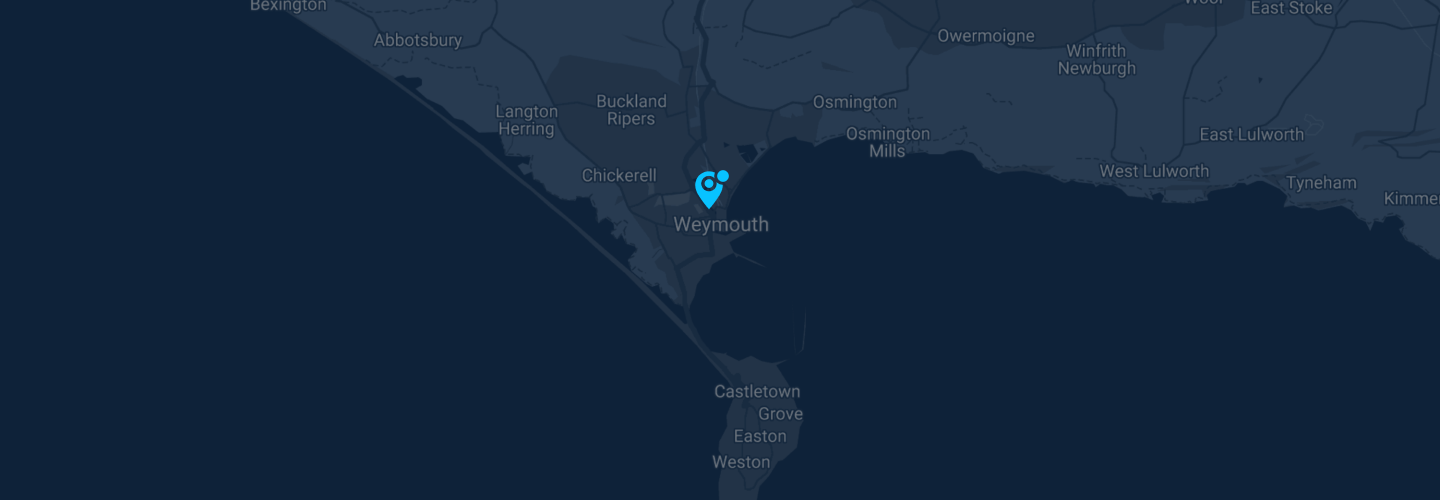
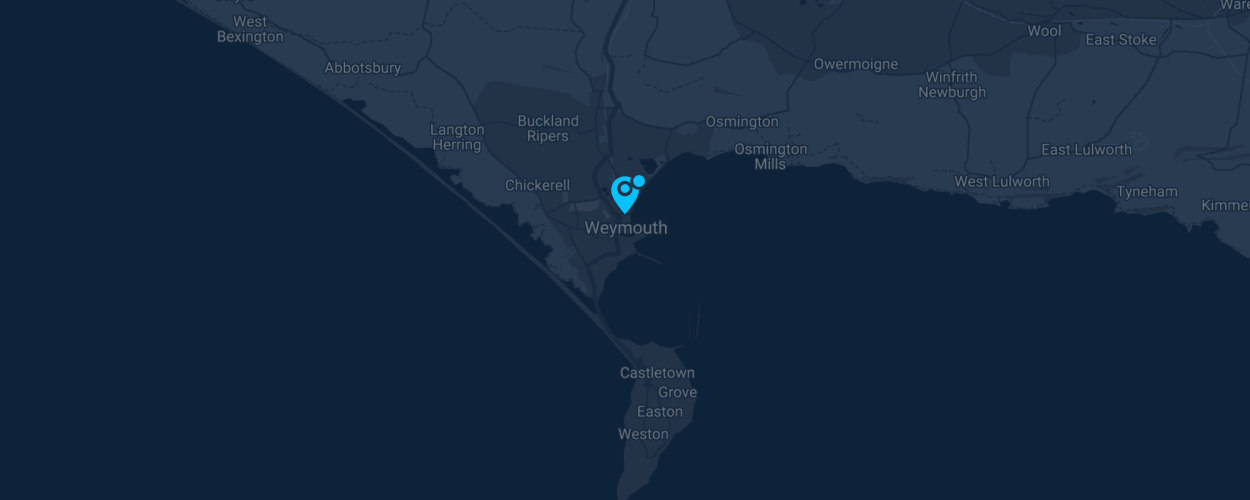
Contact section layout, markup/css complete, not responsive and not functional

diff --git a/src/components/ContactForm.js b/src/components/ContactForm.js
@@ -1,0 +1,112 @@
+import React, { useState } from 'react';
+import Input from '../components/Input';
+import '../styles/contact-form.css';
+
+export default function ContactForm() {
+  const [name, setName] = useState({ value: '', error: undefined });
+  const [email, setEmail] = useState({ value: '', error: undefined });
+  const [message, setMessage] = useState({ value: '', error: undefined });
+
+  const validateName = (e) => {
+    setName((prevState) => {
+      return { ...prevState, value: e.target.value };
+    });
+  };
+
+  const validateEmail = (e) => {
+    setEmail((prevState) => {
+      return { ...prevState, value: e.target.value };
+    });
+  };
+
+  const validateMessage = (e) => {
+    setMessage((prevState) => {
+      return { ...prevState, value: e.target.value };
+    });
+  };
+
+  const submitForm = (e) => {
+    e.preventDefault();
+
+    console.log('Form submitted');
+  };
+
+  return (
+    <div className='c-form'>
+      <form>
+        <Input
+          type='text'
+          value={name.value}
+          onChange={validateName}
+          error={name.error}
+          label='Name'
+          placeholder='John doe...'
+          id='Name'
+        />
+        <Input
+          type='text'
+          value={email.value}
+          onChange={validateEmail}
+          error={email.error}
+          label='Email'
+          placeholder='example@email.com...'
+          id='Email'
+        />
+        <Input
+          type='textarea'
+          value={message.value}
+          onChange={validateMessage}
+          error={message.error}
+          label='Message'
+          placeholder="Hi, i'd like to talk about..."
+          id='Message'
+        />
+        <button className='btn btn-primary' type='submit' onClick={(e) => submitForm(e)}>
+          <svg width='30' height='30' viewBox='0 0 30 30' fill='none' xmlns='http://www.w3.org/2000/svg'>
+            <path
+              d='M25 5H7.5C6.12125 5 5 6.12125 5 7.5V13.75H7.5V10L15.5 16C15.7165 16.1621 15.9796 16.2497 16.25 16.2497C16.5204 16.2497 16.7836 16.1621 17 16L25 10V21.25H15V23.75H25C26.3788 23.75 27.5 22.6287 27.5 21.25V7.5C27.5 6.12125 26.3788 5 25 5ZM16.25 13.4375L8.3325 7.5H24.1675L16.25 13.4375Z'
+              fill='#F6FAFE'
+            />
+            <path
+              d='M2.5 15H11.25V17.5H2.5V15ZM5 18.75H12.5V21.25H5V18.75ZM8.75 22.5H13.75V25H8.75V22.5Z'
+              fill='#F6FAFE'
+            />
+          </svg>
+          Send Mail
+        </button>
+      </form>
+      <div className='c-form-seperator'></div>
+      <address className='c-form-details'>
+        <svg width='30' height='30' viewBox='0 0 30 30' fill='none' xmlns='http://www.w3.org/2000/svg'>
+          <path
+            d='M25 5H7.5C6.12125 5 5 6.12125 5 7.5V13.75H7.5V10L15.5 16C15.7165 16.1621 15.9796 16.2497 16.25 16.2497C16.5204 16.2497 16.7836 16.1621 17 16L25 10V21.25H15V23.75H25C26.3788 23.75 27.5 22.6287 27.5 21.25V7.5C27.5 6.12125 26.3788 5 25 5ZM16.25 13.4375L8.3325 7.5H24.1675L16.25 13.4375Z'
+            fill='#041A2F'
+          />
+          <path
+            d='M2.5 15H11.25V17.5H2.5V15ZM5 18.75H12.5V21.25H5V18.75ZM8.75 22.5H13.75V25H8.75V22.5Z'
+            fill='#041A2F'
+          />
+        </svg>
+        <a
+          href='mailto:leonmichalak6@gmail.com'
+          target='_blank'
+          rel='noreferrer'
+          className='c-form-contact body-s-text'
+        >
+          leonmichalak6@gmail.com
+        </a>
+      </address>
+      <address className='c-form-details'>
+        <svg width='30' height='23' viewBox='0 0 30 23' fill='none' xmlns='http://www.w3.org/2000/svg'>
+          <path
+            d='M7.50001 3.75C7.50001 2.75544 7.8951 1.80161 8.59836 1.09835C9.30162 0.395088 10.2554 0 11.25 0H18.75C19.7446 0 20.6984 0.395088 21.4016 1.09835C22.1049 1.80161 22.5 2.75544 22.5 3.75V18.75C22.5 19.7445 22.1049 20.6984 21.4016 21.4016C20.6984 22.1049 19.7446 22.5 18.75 22.5H11.25C10.2554 22.5 9.30162 22.1049 8.59836 21.4016C7.8951 20.6984 7.50001 19.7445 7.50001 18.75V3.75ZM16.875 16.875C16.875 16.3777 16.6775 15.9008 16.3258 15.5492C15.9742 15.1975 15.4973 15 15 15C14.5027 15 14.0258 15.1975 13.6742 15.5492C13.3225 15.9008 13.125 16.3777 13.125 16.875C13.125 17.3723 13.3225 17.8492 13.6742 18.2008C14.0258 18.5524 14.5027 18.75 15 18.75C15.4973 18.75 15.9742 18.5524 16.3258 18.2008C16.6775 17.8492 16.875 17.3723 16.875 16.875ZM3.38814 5.12625C3.5045 4.90645 3.52878 4.64943 3.45565 4.41172C3.38251 4.17402 3.21794 3.97511 2.99814 3.85875C2.77834 3.74238 2.52132 3.7181 2.28362 3.79124C2.04591 3.86438 1.847 4.02895 1.73064 4.24875C0.590613 6.40612 -0.00357716 8.80992 1.62016e-05 11.25C1.62016e-05 13.7756 0.626266 16.1587 1.73064 18.2512C1.78826 18.3601 1.86675 18.4565 1.96163 18.535C2.05651 18.6135 2.16592 18.6725 2.28362 18.7087C2.40132 18.745 2.52499 18.7576 2.64759 18.746C2.77019 18.7345 2.8893 18.6988 2.99814 18.6412C3.10697 18.5836 3.20339 18.5051 3.28189 18.4102C3.36039 18.3154 3.41943 18.206 3.45565 18.0883C3.49186 17.9706 3.50454 17.8469 3.49295 17.7243C3.48137 17.6017 3.44575 17.4826 3.38814 17.3737C2.3911 15.4867 1.87158 13.3842 1.87501 11.25C1.87501 9.03749 2.42251 6.95249 3.38814 5.12625ZM28.2694 4.24875C28.153 4.02895 27.9541 3.86438 27.7164 3.79124C27.4787 3.7181 27.2217 3.74238 27.0019 3.85875C26.7821 3.97511 26.6175 4.17402 26.5444 4.41172C26.4712 4.64943 26.4955 4.90645 26.6119 5.12625C27.5775 6.95249 28.125 9.03562 28.125 11.25C28.125 13.4625 27.5775 15.5475 26.6119 17.3737C26.4955 17.5935 26.4712 17.8506 26.5444 18.0883C26.6175 18.326 26.7821 18.5249 27.0019 18.6412C27.2217 18.7576 27.4787 18.7819 27.7164 18.7087C27.9541 18.6356 28.153 18.471 28.2694 18.2512C29.4094 16.0939 30.0036 13.6901 30 11.25C30.0036 8.80992 29.4094 6.40612 28.2694 4.24875V4.24875ZM6.26251 7.84124C6.31483 7.72536 6.34304 7.60005 6.34541 7.47293C6.34778 7.34581 6.32427 7.21954 6.27631 7.10179C6.22835 6.98404 6.15693 6.87728 6.06642 6.78799C5.9759 6.69871 5.86816 6.62877 5.74977 6.58243C5.63137 6.53609 5.50478 6.51432 5.37771 6.51844C5.25063 6.52255 5.12572 6.55248 5.01057 6.60638C4.89543 6.66029 4.79245 6.73706 4.7079 6.83202C4.62335 6.92697 4.559 7.03814 4.51876 7.15874C4.00964 8.46262 3.7489 9.85023 3.75001 11.25C3.75001 12.6919 4.02189 14.0719 4.51876 15.3412C4.559 15.4618 4.62335 15.573 4.7079 15.668C4.79245 15.7629 4.89543 15.8397 5.01057 15.8936C5.12572 15.9475 5.25063 15.9774 5.37771 15.9815C5.50478 15.9857 5.63137 15.9639 5.74977 15.9175C5.86816 15.8712 5.9759 15.8013 6.06642 15.712C6.15693 15.6227 6.22835 15.5159 6.27631 15.3982C6.32427 15.2804 6.34778 15.1542 6.34541 15.027C6.34304 14.8999 6.31483 14.7746 6.26251 14.6587C5.83928 13.5722 5.62306 12.4161 5.62501 11.25C5.62501 10.0462 5.85001 8.89687 6.26251 7.84124ZM25.4812 7.15874C25.3823 6.93968 25.2031 6.76698 24.9805 6.67631C24.7579 6.58564 24.5089 6.58393 24.2851 6.67153C24.0613 6.75913 23.8797 6.92936 23.7777 7.14704C23.6758 7.36473 23.6614 7.61324 23.7375 7.84124C24.15 8.89687 24.375 10.0462 24.375 11.25C24.375 12.4537 24.15 13.6031 23.7375 14.6587C23.6614 14.8867 23.6758 15.1352 23.7777 15.3529C23.8797 15.5706 24.0613 15.7408 24.2851 15.8284C24.5089 15.9161 24.7579 15.9143 24.9805 15.8237C25.2031 15.733 25.3823 15.5603 25.4812 15.3412C25.98 14.0719 26.25 12.6919 26.25 11.25C26.25 9.80812 25.9781 8.42812 25.4812 7.15874V7.15874Z'
+            fill='#041A2F'
+          />
+        </svg>
+        <a href='callto:07498610586' target='_blank' rel='noreferrer' className='c-form-contact body-s-text'>
+          07498 610586
+        </a>
+      </address>
+    </div>
+  );
+}

diff --git a/src/styles/contact-form.css b/src/styles/contact-form.css
@@ -1,0 +1,56 @@
+.c-form {
+  background: #fff;
+  border-radius: var(--border-r);
+  box-shadow: 0 0 25px 0 rgba(0, 0, 0, 0.2);
+  max-width: 400px;
+  padding: 32px;
+  width: 100%;
+}
+
+.c-form button {
+  display: flex;
+  justify-content: center;
+  align-items: center;
+  padding: 8.5px 30px;
+  width: 100%;
+}
+
+.c-form button:hover svg path,
+.c-form button:focus svg path {
+  transition: all 0.2s ease-in-out;
+  fill: var(--primary-dark);
+}
+
+.c-form button svg {
+  margin-right: 12px;
+  max-height: 24px;
+  max-width: 24px;
+}
+
+.c-form-seperator {
+  background-color: var(--primary-dark);
+  margin: 40px 0;
+  width: 100%;
+  height: 1px;
+}
+
+.c-form-details {
+  display: flex;
+  justify-content: flex-start;
+  align-items: center;
+}
+
+.c-form-details:not(:last-child) {
+  margin-bottom: 16px;
+}
+
+.c-form-contact {
+  font-style: normal;
+  color: var(--black);
+  margin-left: 16px;
+  font-weight: 500;
+}
+
+.c-form-contact:hover {
+  text-decoration: underline;
+}

diff --git a/src/components/Input.js b/src/components/Input.js
@@ -1,0 +1,33 @@
+import React from 'react';
+import '../styles/input.css';
+
+export default function Input({ type, value, onChange, error, label, placeholder, id }) {
+  return (
+    <div className='input'>
+      <label for={id} className='body-s-text'>
+        {label}
+      </label>
+      {type === 'text' ? (
+        <input
+          className='body-s-text'
+          type='text'
+          value={value}
+          onChange={(e) => onChange(e)}
+          placeholder={placeholder}
+          id={id}
+          name={id}
+        />
+      ) : (
+        <textarea
+          className='body-s-text'
+          value={value}
+          onChange={(e) => onChange(e)}
+          placeholder={placeholder}
+          id={id}
+          name={id}
+        />
+      )}
+      <small className='error small-text'>{error}</small>
+    </div>
+  );
+}

diff --git a/src/styles/about.css b/src/styles/about.css
@@ -15,7 +15,7 @@
   display: flex;
   justify-content: flex-start;
   align-items: stretch;
-  max-width: var(--max-width);
+  max-width: calc(var(--max-width) - 64px);
   margin-right: auto;
   width: 100%;
 }
@@ -74,6 +74,10 @@
     grid-template-columns: 1fr;
     padding-left: 30px;
   }
+
+  .about-main {
+    max-width: calc(var(--max-width) - 30px);
+  }
 }
 
 @media (max-width: 1050px) {
@@ -85,6 +89,7 @@
 @media (max-width: 750px) {
   .about-main {
     flex-direction: column;
+    max-width: var(--max-width);
   }
 
   .about-img {

diff --git a/src/styles/contact.css b/src/styles/contact.css
@@ -1,5 +1,6 @@
 .contact {
-  background: no-repeat url('../assets/Map\ of\ Dorset\ -\ Weymouth.png') center / cover;
+  background: no-repeat url('../assets/Map\ of\ Dorset\ -\ Weymouth.png') center;
+  background-color: #0e2239;
   padding: 0 30px;
   height: 500px;
   /* TEMP */
@@ -46,6 +47,10 @@
   transform: translate(-50%, -50%);
   left: 50%;
   top: 50%;
+}
+
+.contact-social-container a:focus {
+  outline: var(--black) dotted 2px;
 }
 
 .contact-social-container a svg {

diff --git a/src/styles/input.css b/src/styles/input.css
@@ -1,0 +1,30 @@
+.input {
+  margin-bottom: 24px;
+  width: 100%;
+}
+
+.input label {
+  display: block;
+  font-weight: 700;
+}
+
+.input input,
+.input textarea {
+  border-radius: var(--border-r);
+  color: var(--black);
+  border: 1px solid #cacaca;
+  padding: 6px 15px;
+  margin: 8px 0 4px 0;
+  width: 100%;
+  min-width: 0;
+}
+
+.input input::placeholder,
+.input textarea::placeholder {
+  color: #cacaca;
+}
+
+.input .error {
+  margin-left: 4px;
+  color: #cc0000;
+}

diff --git a/src/sections/Contact.js b/src/sections/Contact.js
@@ -1,4 +1,5 @@
 import React from 'react';
+import ContactForm from '../components/ContactForm';
 import '../styles/contact.css';
 
 export default function Contact() {
@@ -76,6 +77,8 @@ export default function Contact() {
             </div>
           </address>
         </div>
+
+        <ContactForm />
       </div>
     </section>
   );

diff --git a/src/styles/skills.css b/src/styles/skills.css
@@ -71,4 +71,8 @@
   #p-skill-card-3 {
     top: 0;
   }
+
+  .skills {
+    margin-bottom: 124px;
+  }
 }
